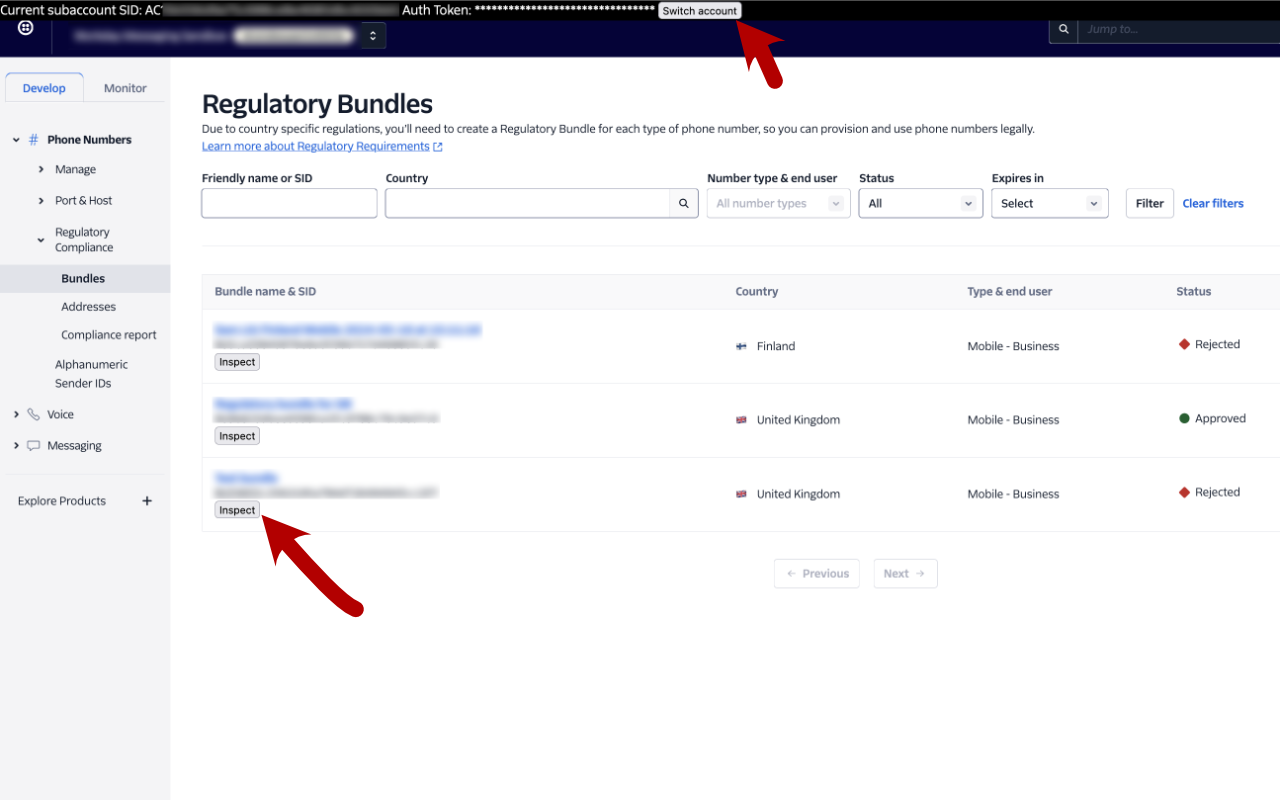
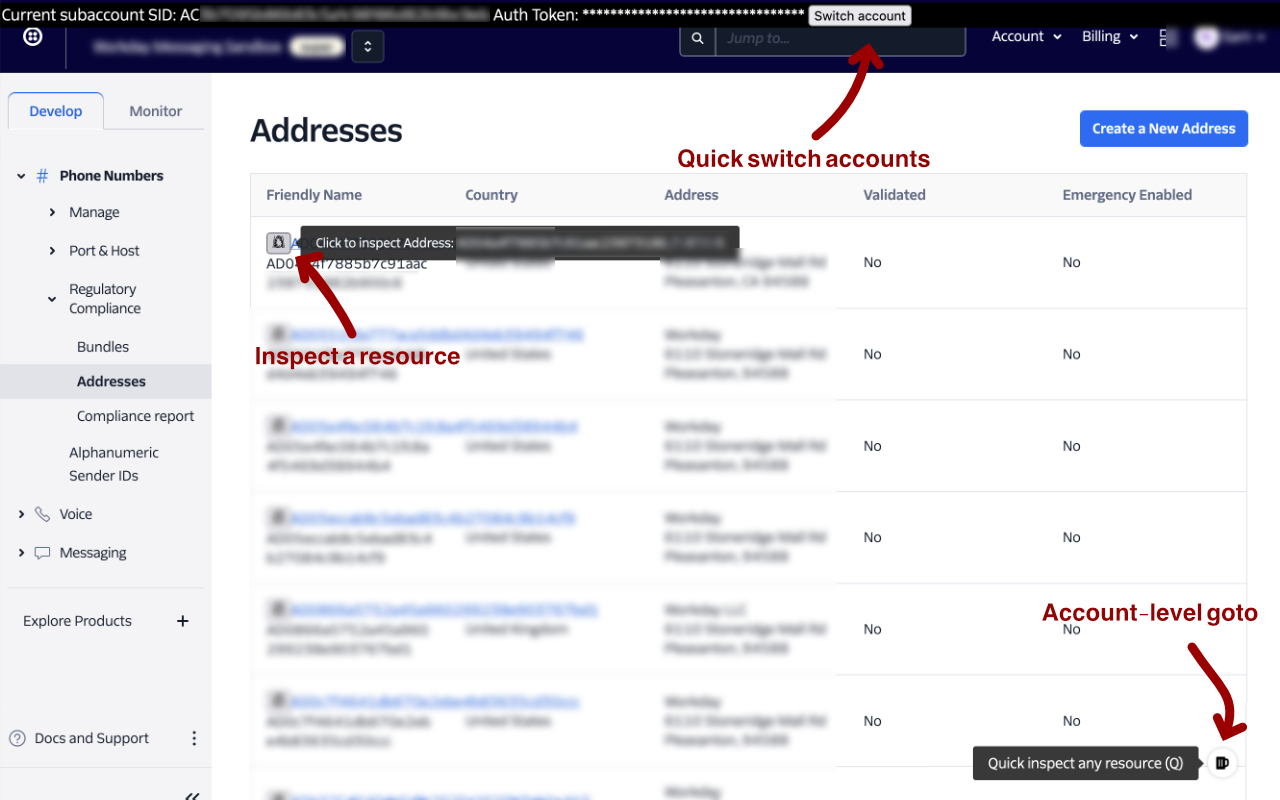
Update styles for buttons

diff --git a/src/components/inspect-resource-button.tsx b/src/components/inspect-resource-button.tsx
@@ -4,6 +4,7 @@ import { useQuery } from "@tanstack/react-query";
 import { TwilioResource } from "../twilio-resources";
 import { Tooltip } from "react-tooltip";
 import Modal from "./modal";
+import { GiMagicPortal } from "react-icons/gi";
 
 interface InspectResourceButtonProperties {
   resource: TwilioResource;
@@ -18,7 +19,7 @@ const InspectResourceButton: React.FC<InspectResourceButtonProperties> = ({
   return (
     <>
       <button className={`inspect-${resource.sid}`} onClick={openModal}>
-        Inspect
+        <GiMagicPortal />
       </button>
       <Tooltip anchorSelect={`.inspect-${resource.sid}`} place="top">
         Click to inspect {resource.getName()}

diff --git a/src/main.tsx b/src/main.tsx
@@ -56,10 +56,10 @@ const setupResourceDetailInfoButtons = debounce(() => {
       const parent = link.parentElement;
       const ptContainer = parent.querySelector(".pt-root");
       if (!ptContainer) {
-        const div = document.createElement("div");
-        div.classList.add("pt-root");
-        parent.append(div);
-        createRoot(div).render(
+        const span = document.createElement("span");
+        span.classList.add("pt-root");
+        link.before(span);
+        createRoot(span).render(
           <QueryClientProvider client={QUERY_CLIENT}>
             <InspectResourceButton resource={twilioResource} />
           </QueryClientProvider>,

diff --git a/README.md b/README.md
@@ -25,6 +25,8 @@ commands for quick API testing and integration.
 
 <img alt="screenshot" src="./screenshots/2.png" style="max-width: 100%" />
 
+<img alt="screenshot" src="./screenshots/3.png" style="max-width: 100%" />
+
 ## Additional configuration on Firefox
 
 Firefox by default doesn't grant `host_permission` for manifest V3 extensions
